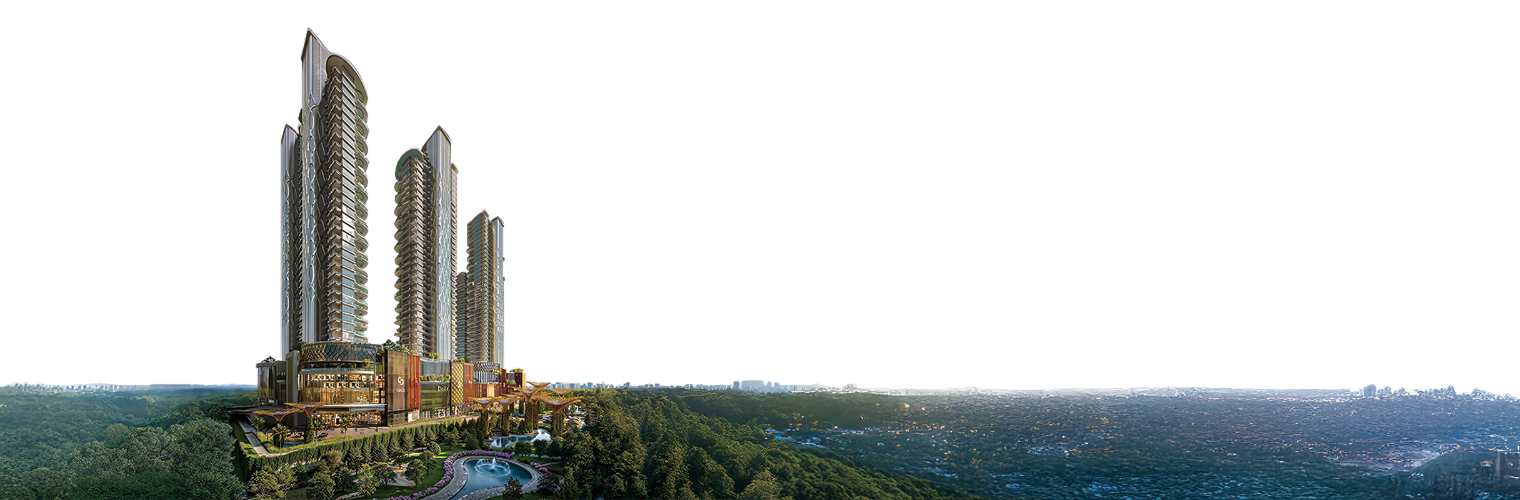
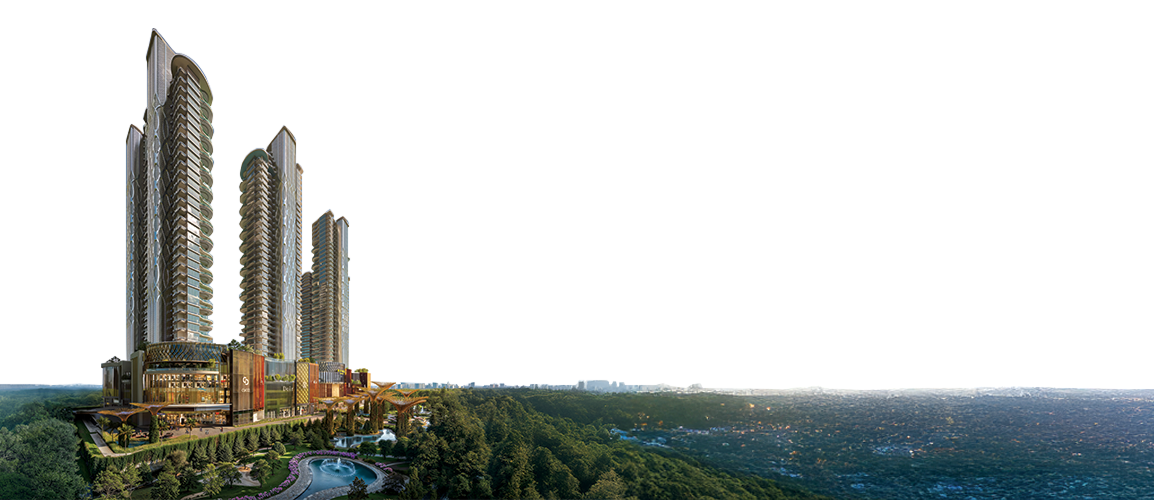
changes

Changed region(s): [[0.0, 0.06, 1.0, 1.0]]

diff --git a/src/frontend/components/MicroPage/LifeStyleSec.jsx b/src/frontend/components/MicroPage/LifeStyleSec.jsx
@@ -27,7 +27,7 @@ const LifeStyleSec = () => {
     backgroundStrokeColor: "#E6D49C",
     backgroundStrokeOpacity: 0.3,
     dashArray: "10 10",
-    startAngle: -270,
+    startAngle: -250,
     initialOpacity: 0,
     initialY: 30,
     initialScale: 0.8,
@@ -49,7 +49,7 @@ const LifeStyleSec = () => {
 
     const circumference = 2 * Math.PI * defaultValues.radius;
     const totalPoints = 4;
-    const segmentLength = (circumference + 1800) / totalPoints;
+    const segmentLength = (circumference + 1100) / totalPoints;
     const firstPointOffset = circumference - segmentLength;
 
     gsap.set(circle, {
@@ -74,7 +74,7 @@ const LifeStyleSec = () => {
     let lastActiveIndex = 0;
     ScrollTrigger.create({
       trigger: section,
-      start: "top top-=70",
+      start: "top top",
       end: "+=300%",
       pin: true,
       pinSpacing: true,
@@ -132,6 +132,7 @@ const LifeStyleSec = () => {
       id="largeElevationSection"
     >
       <div className={`bottom_img_div`}>
+        <div className="bg_overlay"></div>
         <div className={``}>
           <div className="">
             <ul ref={pointersRef} className="ponters">
@@ -141,58 +142,58 @@ const LifeStyleSec = () => {
               <li className="pr_name">Hotels</li>
             </ul>
             <div className="svg_container">
-              <svg
-                width="1129"
-                height="1091"
-                viewBox="0 0 1129 1091"
-                fill="none"
-                xmlns="http://www.w3.org/2000/svg"
-              >
-                <circle
-                  cx="596.5"
-                  cy="536.5"
-                  r={defaultValues.radius}
-                  stroke={defaultValues.backgroundStrokeColor}
-                  strokeOpacity={defaultValues.backgroundStrokeOpacity}
-                  strokeDasharray={defaultValues.dashArray}
+                <svg
+                  width="1129"
+                  height="1091"
+                  viewBox="0 0 1129 1091"
                   fill="none"
-                />
-                <circle
-                  ref={circleRef}
-                  cx="596.5"
-                  cy="536.5"
-                  r={defaultValues.radius}
-                  stroke={defaultValues.strokeColor}
-                  strokeWidth={defaultValues.strokeWidth}
-                  fill="transparent"
-                  strokeLinecap="round"
-                  transform={`rotate(${defaultValues.startAngle} 596.5 536.5)`}
-                />
-                <circle
-                  cx="252.5"
-                  cy="144.5"
-                  r="12.5"
-                  fill={defaultValues.strokeColor}
-                />
-                <circle
-                  cx="619.5"
-                  cy="12.5"
-                  r="12.5"
-                  fill={defaultValues.strokeColor}
-                />
-                <circle
-                  cx="1116.5"
-                  cy="498.5"
-                  r="12.5"
-                  fill={defaultValues.strokeColor}
-                />
-                <circle
-                  cx="971.5"
-                  cy="171.5"
-                  r="12.5"
-                  fill={defaultValues.strokeColor}
-                />
-              </svg>
+                  xmlns="http://www.w3.org/2000/svg"
+                >
+                  <circle
+                    cx="596.5"
+                    cy="536.5"
+                    r={defaultValues.radius}
+                    stroke={defaultValues.backgroundStrokeColor}
+                    strokeOpacity={defaultValues.backgroundStrokeOpacity}
+                    strokeDasharray={defaultValues.dashArray}
+                    fill="none"
+                  />
+                  <circle
+                    ref={circleRef}
+                    cx="596.5"
+                    cy="536.5"
+                    r={defaultValues.radius}
+                    stroke={defaultValues.strokeColor}
+                    strokeWidth={defaultValues.strokeWidth}
+                    fill="transparent"
+                    strokeLinecap="round"
+                    transform={`rotate(${defaultValues.startAngle} 596.5 536.5)`}
+                  />
+                  <circle
+                    cx="252.5"
+                    cy="144.5"
+                    r="12.5"
+                    fill={defaultValues.strokeColor}
+                  />
+                  <circle
+                    cx="619.5"
+                    cy="12.5"
+                    r="12.5"
+                    fill={defaultValues.strokeColor}
+                  />
+                  <circle
+                    cx="1116.5"
+                    cy="498.5"
+                    r="12.5"
+                    fill={defaultValues.strokeColor}
+                  />
+                  <circle
+                    cx="971.5"
+                    cy="171.5"
+                    r="12.5"
+                    fill={defaultValues.strokeColor}
+                  />
+                </svg>
             </div>
           </div>
           <img

diff --git a/src/index.css b/src/index.css
@@ -6349,6 +6349,7 @@ margin: 100px 0px;
 /* background: linear-gradient(rgba(0, 0, 0, 0.804), rgba(0, 0, 0, 0.804)), url("/contact-info.webp"); */
 background-size: cover;   /* Makes the image cover the section */
 background-position: center; /* Centers the image */
+border-block:1px solid #ffffff3b;
 background-repeat: no-repeat; /* Prevents tiling */
 }
 
@@ -6384,6 +6385,7 @@ z-index: 0;
 .Contact-info .card{
 /* border: 1px solid #e6d49c; */
 padding: 40px;
+height: 100%;
 /* background-color: #000; */
 background: transparent;
 border-radius: 0;
@@ -6500,7 +6502,7 @@ width: 12px;
 /* microsite contact info section style end */
 
 
-.lifestyle_sec{padding-top:300px ;padding-bottom: 100px;}
+.lifestyle_sec{padding-top: 140px;position: static;overflow: inherit;}
 
 .lifestyle_sec .content_section{position: absolute;
 bottom: 29%;
@@ -6510,53 +6512,63 @@ width: 38%;
 transform: translateY(-50%);}
 .lifestyle_sec .content_section p{margin:30px 0;line-height: 1.8;}
 .lifestyle_sec  .svg_container{        position: absolute;
-top: -442px;
-left: 41%;
-transform: translateX(-50%);}
+    top: -354px;
+    left: 37%;
+    transform: translateX(-50%);}
 .lifestyle_sec  .svg_container svg{width:50%;}
 .lifestyle_sec .content_section h3{color: #E6D49C;    color: #E6D49C;
 line-height: 1.5;
 text-transform: uppercase;}
 .lifestyle_sec .ponters li{text-transform: uppercase;position: absolute;font-family: var(--tinos_font);}
-.lifestyle_sec .ponters li:nth-child(1){        left: calc(9%);
-display: flex
+.lifestyle_sec .ponters li:nth-child(1){          left: calc(5%);
+    display: flex
 ;
-align-items: center;
-gap: 30px;
-top: -14%;}
-
-.lifestyle_sec .ponters li:nth-child(2){         left: calc(26%);
-gap: 30px;
-top: -31%;
-justify-content: center;
-align-items: center;
-display: flex
-;
-flex-direction: column;
-gap: 10px;
+    align-items: center;
+    gap: 30px;
+    top: 1%;
 }
 
-
-.lifestyle_sec .ponters li:nth-child(3){            right: calc(58%);
-gap: 30px;
-top: -61px;
-justify-content: center;
-align-items: center;
-display: flex
+.lifestyle_sec .ponters li:nth-child(2){      left: calc(21%);
+    gap: 30px;
+    top:-10%;
+    justify-content: center;
+    align-items: center;
+    display: flex
 ;
-flex-direction: column;
-gap: 10px;
+    flex-direction: column;
+    gap: 10px;
 }
-.lifestyle_sec .ponters li:nth-child(4){                     right: calc(53%);
-gap: 30px;
-top: calc(18% - 4px);
-transform: translateY(-50%);
-justify-content: center;
-align-items: center;
-display: flex
+
+.lifestyle_sec .ponters li:nth-child(3){               right: calc(11%);
+    gap: 30px;
+    top:3%;
+    justify-content: center;
+    align-items: center;
+    display: flex
 ;
-flex-direction: column;
-gap: 10px;
+    flex-direction: column;
+    gap: 10px;
+    right: 62%;
+}
+.lifestyle_sec .ponters li:nth-child(4){                    right: calc(58%);
+    gap: 30px;
+    top:26%;
+    transform: translateY(-50%);
+    justify-content: center;
+    align-items: center;
+    display: flex
+;
+    flex-direction: column;
+    gap: 10px;
+
 }
 .lifestyle_sec .ponters li .circle{height: 15px;width: 15px;background-color: #E6D49C;display: block;border-radius: 50%;}
 .lifestyle_sec  .img_in{position: relative;z-index: 1;object-position: left;width: 100%;}
+.bg_overlay{height: 200px;
+    width: 200px;
+    background-color: #e6d49c29;
+    filter: blur(18px);
+    border-radius: 50%;
+    position: absolute;
+    left: 16%;
+    top: 75px;}
